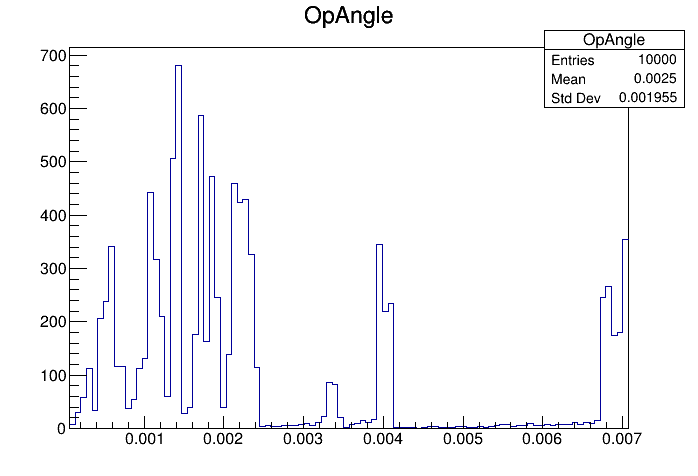
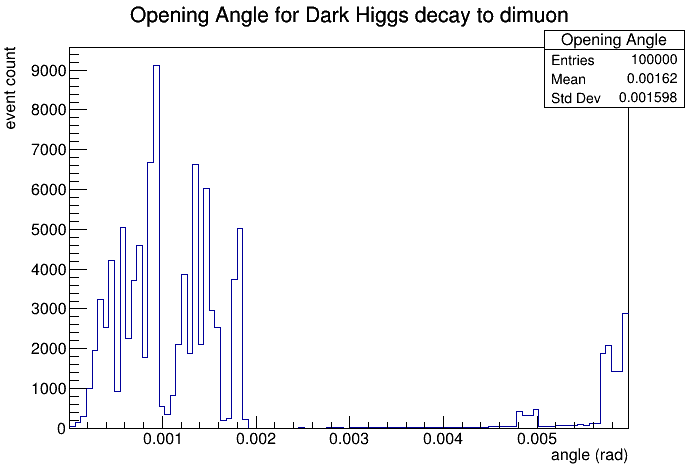
script updates

diff --git a/scripts/csv_to_sndsw.py b/scripts/csv_to_sndsw.py
@@ -66,6 +66,8 @@ tree.Branch('pzf', pzf, 'pzf[2]/D')
 tree.Branch('nf', nf, 'nf/I')
 tree.Branch('pdgf', pdgf, 'pdgf[2]/I')
 opangle=[]
+xlist=[]
+ylist=[]
 # Fill the TTree with the data from the DataFrame
 for index, row in df[df['particle_type']==32].iterrows():
      #print("index {}\n row {} \n".format(index,row))
@@ -84,10 +86,8 @@ for index, row in df[df['particle_type']==32].iterrows():
         nuel[0] = False
         vtxx[0] = row['vx']/1000
         vtxy[0] = row['vy']/1000
-        #vtxz[0] = row['vz']/1000-10
-        #vtxt[0] = row['vt']/1000-10
-        vtxz[0] = row['vz']/1000-480 #temporary for full length
-        vtxt[0] = row['vt']/1000-480
+        vtxz[0] = row['vz']/1000+2.8 #temporary for indet
+        vtxt[0] = row['vt']/1000+2.8
         El[0] = np.sqrt(row['px']**2+row['py']**2+row['pz']**2+row['m']**2)
         pxl[0] = row['px']
         pyl[0] = row['py']
@@ -105,13 +105,22 @@ for index, row in df[df['particle_type']==32].iterrows():
         pdgf[1]=rowmu2['particle_type']
         tree.Fill()
         opangle.append(np.arccos((rowmu['px']*rowmu2['px']+rowmu['py']*rowmu2['py']+rowmu['pz']*rowmu2['pz'])/(np.sqrt(rowmu['px']**2+rowmu['py']**2+rowmu['pz']**2)*np.sqrt(rowmu2['px']**2+rowmu2['py']**2+rowmu2['pz']**2))))
+        xlist.append(row['vx']/1000)
+        ylist.append(row['vy']/1000)
 print("Tree fill concluded, saving to output file")  
 # Write the TTree to the output file
 output_file.Write()
 output_file.Close()
-hist = ROOT.TH1F("OpAngle","OpAngle", 100,min(opangle),max(opangle))
+hist = ROOT.TH1F("Opening Angle","Opening Angle for Dark Higgs decay to dimuon;angle (rad); event count", 100,min(opangle),max(opangle))
+hxystart=ROOT.TH2D("XY-Vertex","Dark Higgs Decay Vertex XY-Plane;x(cm);y(cm)",39*5,-8,-39-8,39*5,15.5,15.5+39)
+hxystart.SetMarkerStyle(2)
+hxystart.SetMarkerSize(2)
 for value in opangle:
     hist.Fill(value)
+for i in range(len(xlist)):
+    hxystart.Fill(xlist [i],ylist[i])
 c1=ROOT.TCanvas()
 hist.Draw()
 c1.SaveAs("OpAngleFromCsv.png")
+hxystart.Draw("COLZ")
+c1.SaveAs("xydecayvertex.png")
